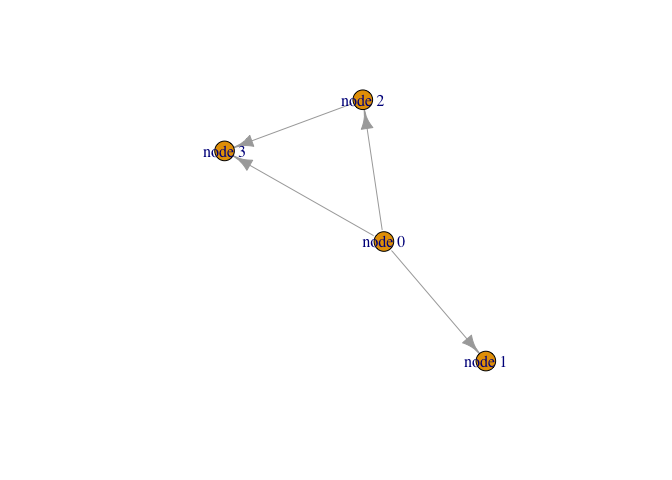
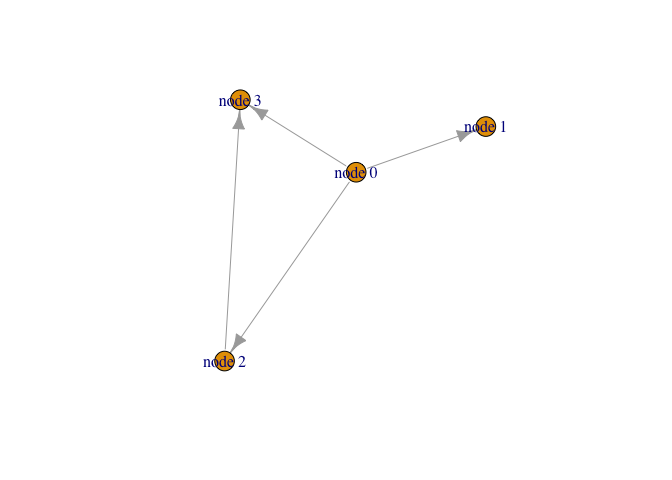
update16

diff --git a/BioinformaticsWinter2020Class16/class16.md b/BioinformaticsWinter2020Class16/class16.md
@@ -739,7 +739,7 @@ createNetworkFromIgraph(g,"myGraph")
     ## Applying preferred layout...
 
     ## networkSUID 
-    ##        4926
+    ##        9772
 
 Switching Styles
 
@@ -753,10 +753,17 @@ setVisualStyle("Marquee")
 Lets save an image from cytoscape and include it in this document
 
 ``` r
-# fig <- exportImage(filename="demo_marquee", type="png", height=350)
-
-# knitr::include_graphics("./demo_marquee.png")
+fig <- exportImage(filename="demo_marquee", type="png", height=350)
 ```
+
+    ## Warning: This file already exists. A Cytoscape popup 
+    ##                 will be generated to confirm overwrite.
+
+``` r
+knitr::include_graphics("./demo_marquee.png")
+```
+
+<img src="./demo_marquee.png" width="655" />
 
 ``` r
 plot(g)
@@ -813,7 +820,7 @@ createNetworkFromIgraph(g,"myIgraph")
     ## Applying preferred layout...
 
     ## networkSUID 
-    ##        4954
+    ##        9800
 
 Network community detection
 
